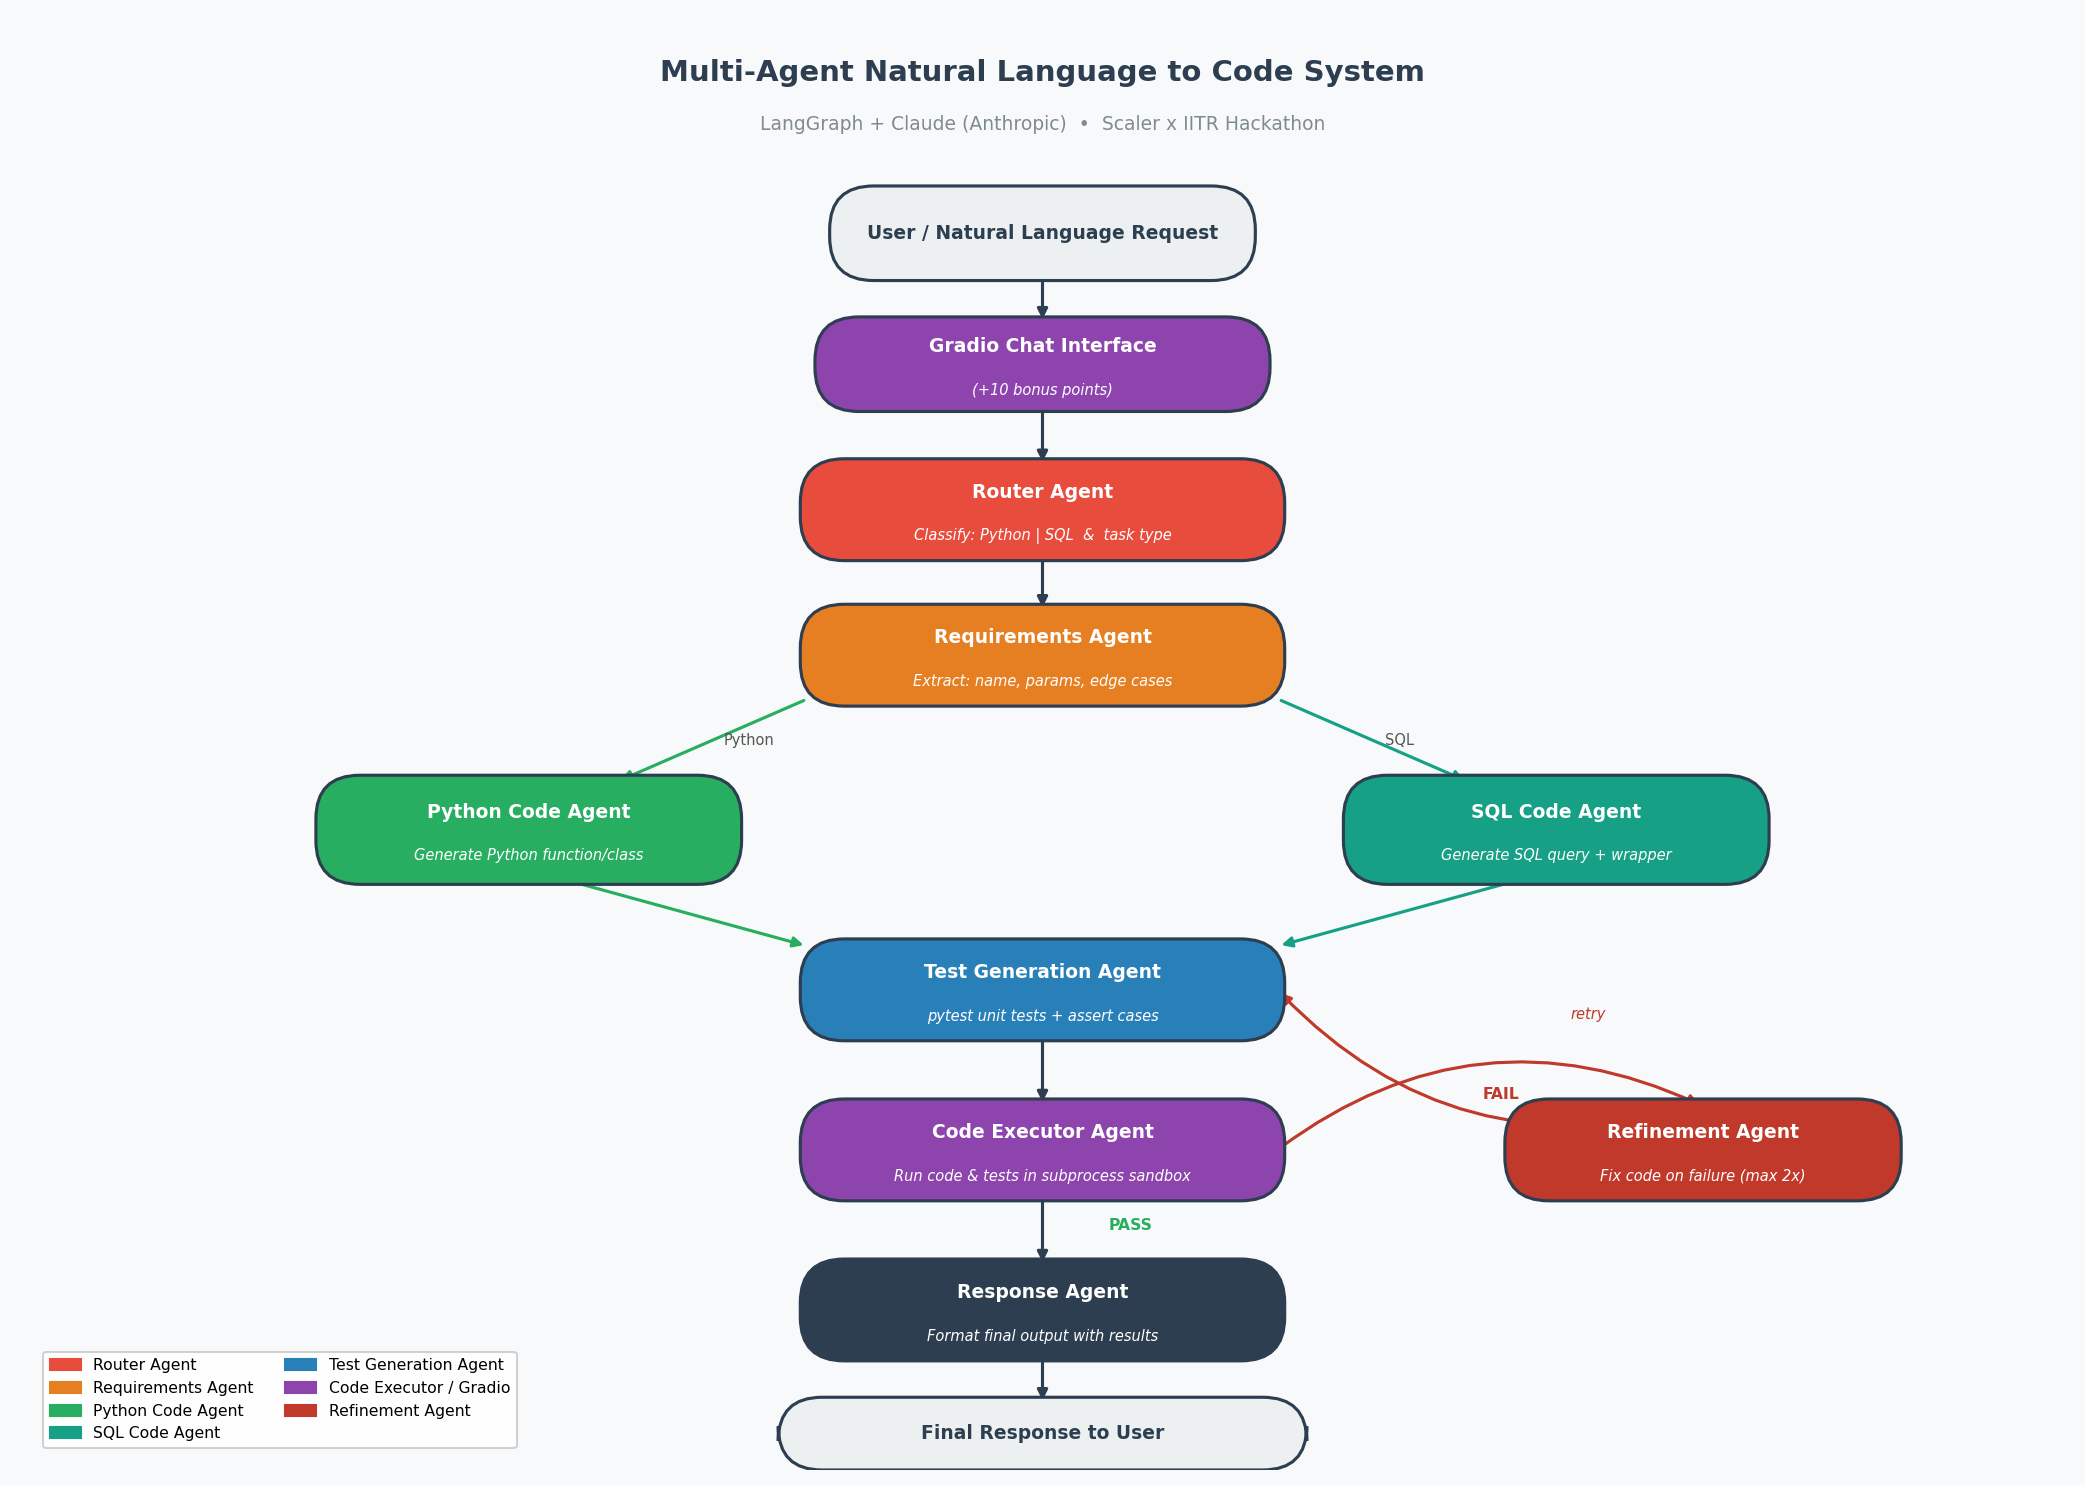
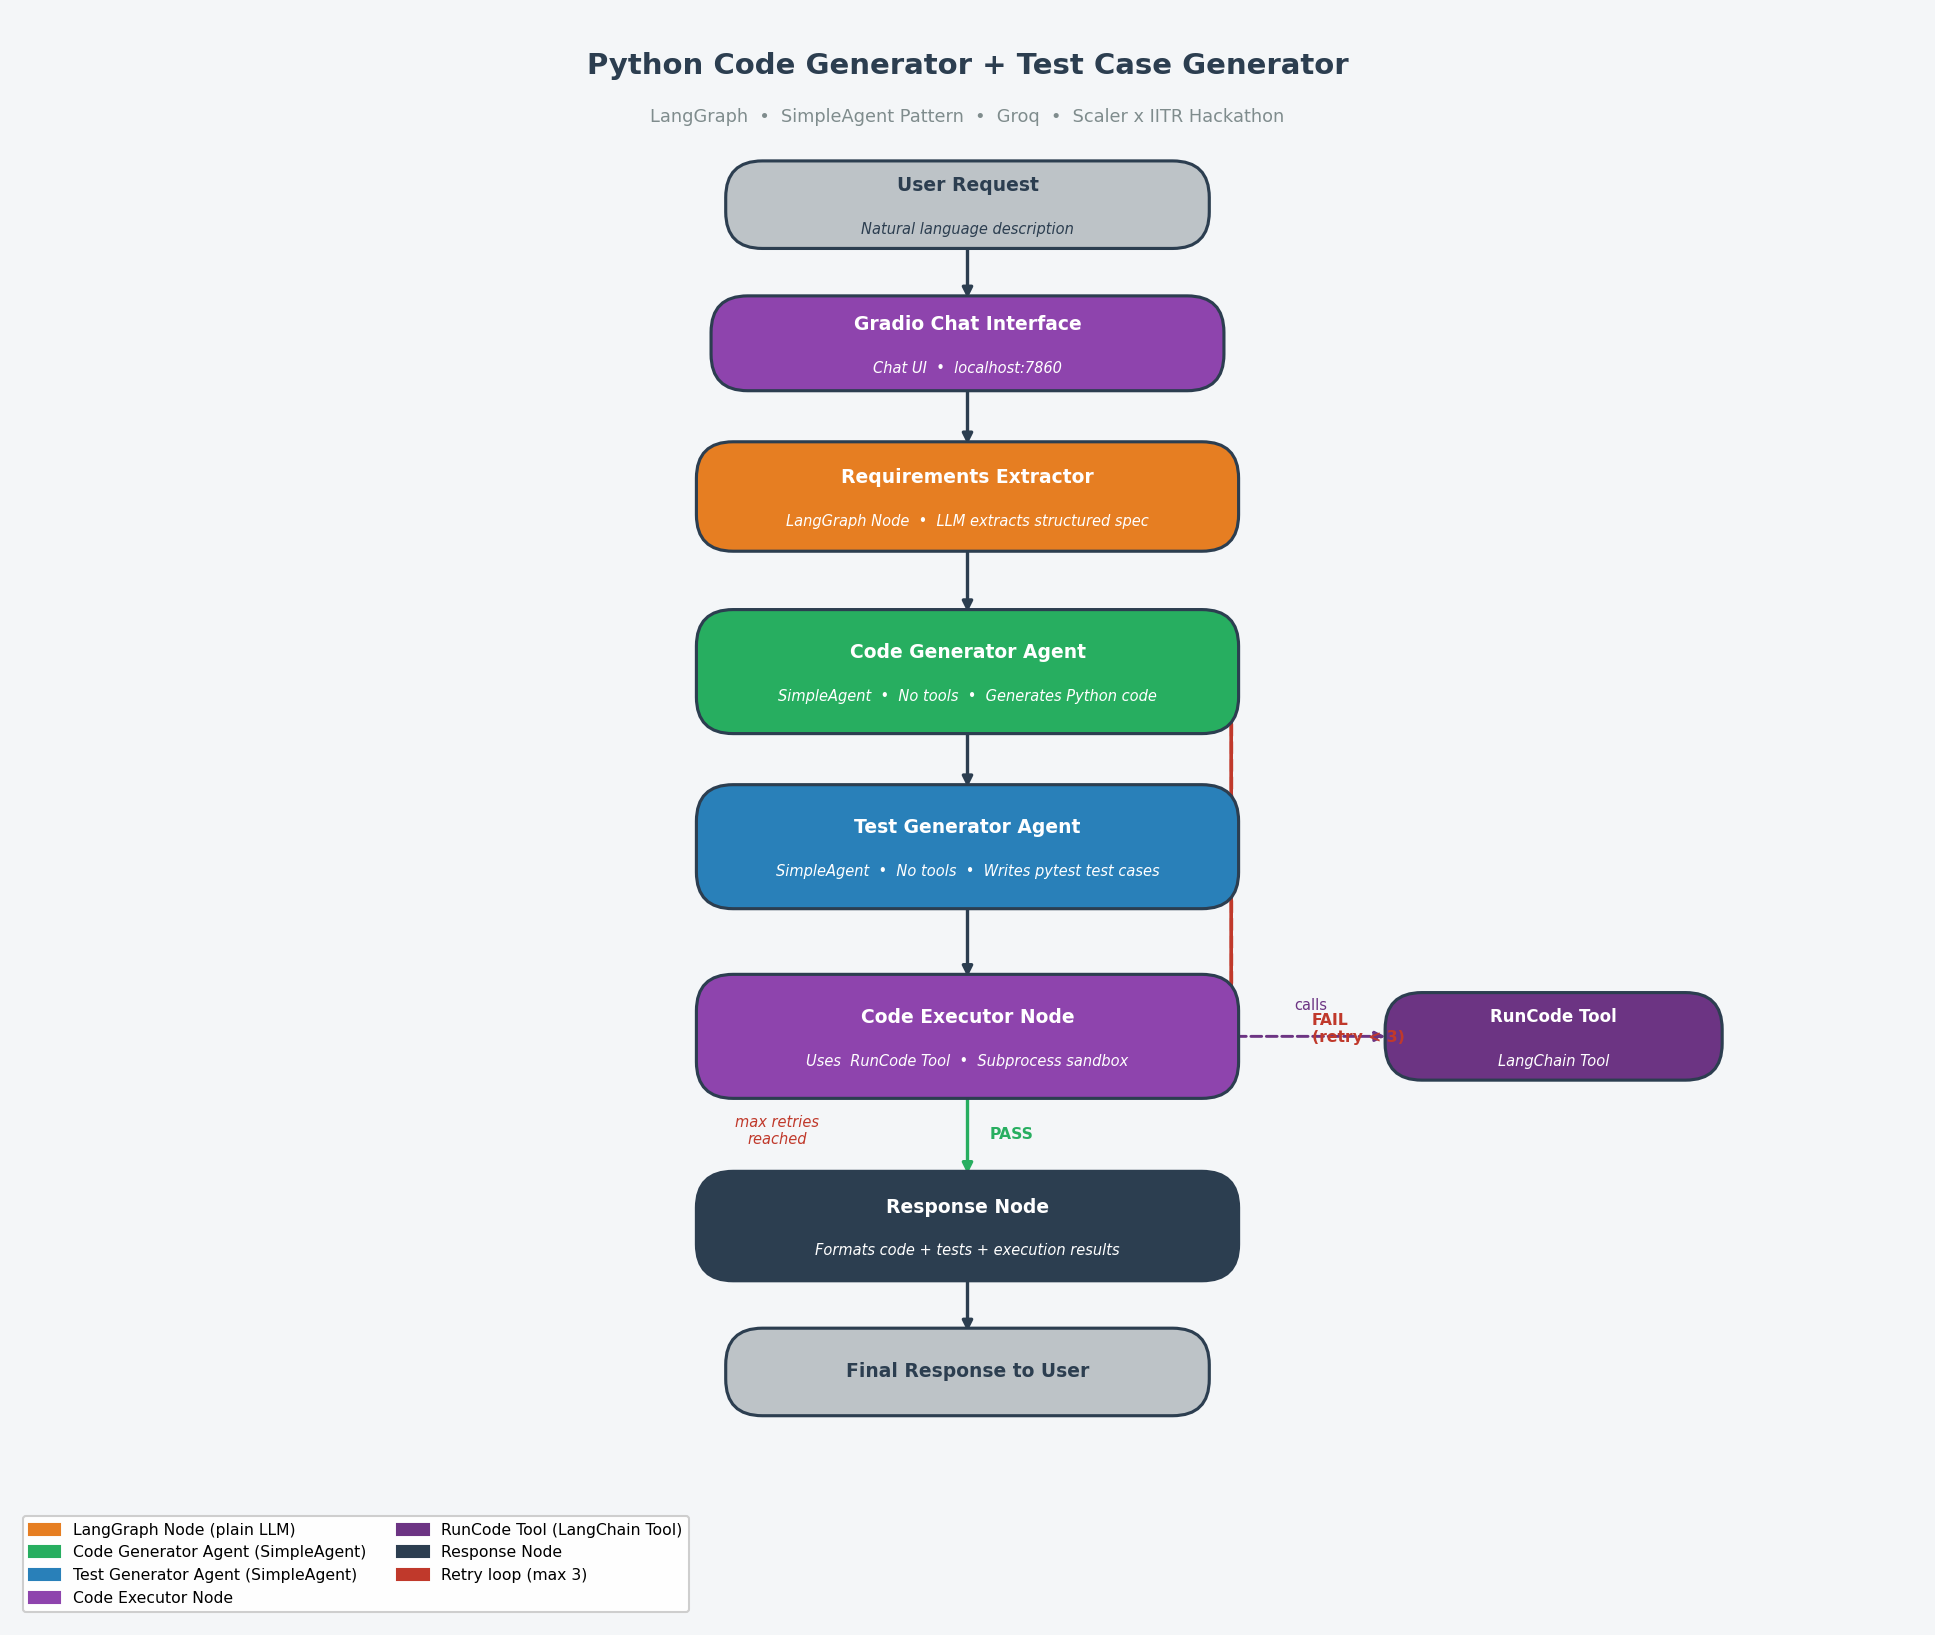
Update flow diagram and add .env support for API key
- Regenerate flow_diagram.png matching new LangGraph architecture:
  Requirements Extractor → Code Generator Agent (SimpleAgent) →
  Test Generator Agent (SimpleAgent) → Code Executor (RunCode Tool) →
  retry loop → Response Node
- Update flow_diagram.py to reflect SimpleAgent pattern and RunCode Tool
- Add .env auto-load in Cell 2 with connection verification
- Add .env to .gitignore

Changed region(s): [[0.124, 0.031, 0.9302, 0.9912], [0.0, 0.8983, 0.3411, 0.9912]]

diff --git a/flow_diagram.py b/flow_diagram.py
@@ -1,145 +1,161 @@
 """
-Flow Diagram Generator for the Multi-Agent NL-to-Code System
-Run: python3 flow_diagram.py
-Saves: flow_diagram.png
+Flow Diagram — Python Code Generator + Test Case Generator
+Architecture: LangGraph + Groq (SimpleAgent pattern)
+Run: python3 flow_diagram.py  →  saves flow_diagram.png
 """
 
 import subprocess, sys
 
-def install(pkg):
-    subprocess.check_call([sys.executable, "-m", "pip", "install", "-q", pkg])
-
 try:
     import matplotlib.pyplot as plt
     import matplotlib.patches as mpatches
-    from matplotlib.patches import FancyBboxPatch, FancyArrowPatch
+    from matplotlib.patches import FancyBboxPatch
 except ImportError:
-    install("matplotlib")
+    subprocess.check_call([sys.executable, "-m", "pip", "install", "-q", "matplotlib"])
     import matplotlib.pyplot as plt
     import matplotlib.patches as mpatches
-    from matplotlib.patches import FancyBboxPatch, FancyArrowPatch
+    from matplotlib.patches import FancyBboxPatch
 
 
-def draw_box(ax, x, y, w, h, label, sublabel="", color="#4A90D9", text_color="white", radius=0.3):
+# ── Helpers ───────────────────────────────────────────────────────────────────
+
+def draw_box(ax, x, y, w, h, label, sublabel="", color="#4A90D9",
+             text_color="white", radius=0.25, fontsize=9):
     box = FancyBboxPatch(
-        (x - w/2, y - h/2), w, h,
+        (x - w / 2, y - h / 2), w, h,
         boxstyle=f"round,pad=0.05,rounding_size={radius}",
-        facecolor=color, edgecolor="#2C3E50", linewidth=1.5, zorder=3
+        facecolor=color, edgecolor="#2C3E50", linewidth=1.5, zorder=3,
     )
     ax.add_patch(box)
-    ax.text(x, y + (0.12 if sublabel else 0), label,
-            ha="center", va="center", fontsize=9, fontweight="bold",
-            color=text_color, zorder=4)
+    offset = 0.13 if sublabel else 0
+    ax.text(x, y + offset, label, ha="center", va="center",
+            fontsize=fontsize, fontweight="bold", color=text_color, zorder=4)
     if sublabel:
-        ax.text(x, y - 0.18, sublabel,
-                ha="center", va="center", fontsize=7, color=text_color, zorder=4, style="italic")
+        ax.text(x, y - 0.17, sublabel, ha="center", va="center",
+                fontsize=7, color=text_color, zorder=4, style="italic")
 
 
-def arrow(ax, x1, y1, x2, y2, label="", color="#2C3E50"):
+def straight_arrow(ax, x1, y1, x2, y2, label="", label_dx=0.12,
+                   color="#2C3E50", lw=1.6):
     ax.annotate("", xy=(x2, y2), xytext=(x1, y1),
-                arrowprops=dict(arrowstyle="-|>", color=color, lw=1.5), zorder=2)
+                arrowprops=dict(arrowstyle="-|>", color=color, lw=lw), zorder=2)
     if label:
-        mx, my = (x1+x2)/2, (y1+y2)/2
-        ax.text(mx + 0.08, my, label, fontsize=7, color="#555", va="center", zorder=5)
+        ax.text((x1 + x2) / 2 + label_dx, (y1 + y2) / 2,
+                label, fontsize=7.5, color=color, fontweight="bold",
+                va="center", zorder=5)
 
 
-fig, ax = plt.subplots(figsize=(14, 10))
-ax.set_xlim(0, 14)
-ax.set_ylim(0, 10)
+def curved_arrow(ax, x1, y1, x2, y2, label="", rad=0.35,
+                 color="#C0392B", lw=1.6, label_offset=(0, 0)):
+    ax.annotate("", xy=(x2, y2), xytext=(x1, y1),
+                arrowprops=dict(arrowstyle="-|>", color=color, lw=lw,
+                                connectionstyle=f"arc3,rad={rad}"), zorder=2)
+    if label:
+        ax.text((x1 + x2) / 2 + label_offset[0],
+                (y1 + y2) / 2 + label_offset[1],
+                label, fontsize=7.5, color=color, fontweight="bold",
+                va="center", zorder=5)
+
+
+# ── Canvas ────────────────────────────────────────────────────────────────────
+
+fig, ax = plt.subplots(figsize=(13, 11))
+ax.set_xlim(0, 13)
+ax.set_ylim(0, 11)
 ax.axis("off")
-ax.set_facecolor("#F8F9FA")
-fig.patch.set_facecolor("#F8F9FA")
+ax.set_facecolor("#F4F6F8")
+fig.patch.set_facecolor("#F4F6F8")
 
-ax.text(7, 9.6, "Multi-Agent Natural Language to Code System",
+# Title
+ax.text(6.5, 10.65, "Python Code Generator + Test Case Generator",
         ha="center", va="center", fontsize=14, fontweight="bold", color="#2C3E50")
-ax.text(7, 9.25, "LangGraph + Claude (Anthropic)  •  Scaler x IITR Hackathon",
-        ha="center", va="center", fontsize=9, color="#7F8C8D")
+ax.text(6.5, 10.3, "LangGraph  •  SimpleAgent Pattern  •  Groq  •  Scaler x IITR Hackathon",
+        ha="center", va="center", fontsize=8.5, color="#7F8C8D")
 
-# ── Nodes ──────────────────────────────────────────────────────────────────────
+# ── Nodes (top → bottom, centred at x=6.5) ───────────────────────────────────
 
-# User
-draw_box(ax, 7, 8.5, 2.8, 0.55, "User / Natural Language Request", color="#ECF0F1", text_color="#2C3E50")
+# 1. User
+draw_box(ax, 6.5, 9.7, 3.2, 0.5, "User Request",
+         sublabel="Natural language description", color="#BDC3C7", text_color="#2C3E50")
 
-# Gradio UI
-draw_box(ax, 7, 7.6, 3.0, 0.55, "Gradio Chat Interface", sublabel="(+10 bonus points)", color="#8E44AD")
+# 2. Gradio
+draw_box(ax, 6.5, 8.75, 3.4, 0.55, "Gradio Chat Interface",
+         sublabel="Chat UI  •  localhost:7860", color="#8E44AD")
 
-# Router Agent
-draw_box(ax, 7, 6.6, 3.2, 0.6, "Router Agent", sublabel="Classify: Python | SQL  &  task type", color="#E74C3C")
+# 3. Requirements Extractor  (LangGraph node — plain LLM call)
+draw_box(ax, 6.5, 7.7, 3.6, 0.65, "Requirements Extractor",
+         sublabel="LangGraph Node  •  LLM extracts structured spec", color="#E67E22")
 
-# Requirements Agent
-draw_box(ax, 7, 5.6, 3.2, 0.6, "Requirements Agent", sublabel="Extract: name, params, edge cases", color="#E67E22")
+# 4. Code Generator Agent  (SimpleAgent)
+draw_box(ax, 6.5, 6.5, 3.6, 0.75, "Code Generator Agent",
+         sublabel="SimpleAgent  •  No tools  •  Generates Python code", color="#27AE60")
 
-# Python Code Agent
-draw_box(ax, 3.5, 4.4, 2.8, 0.65, "Python Code Agent", sublabel="Generate Python function/class", color="#27AE60")
+# 5. Test Generator Agent  (SimpleAgent)
+draw_box(ax, 6.5, 5.3, 3.6, 0.75, "Test Generator Agent",
+         sublabel="SimpleAgent  •  No tools  •  Writes pytest test cases", color="#2980B9")
 
-# SQL Code Agent
-draw_box(ax, 10.5, 4.4, 2.8, 0.65, "SQL Code Agent", sublabel="Generate SQL query + wrapper", color="#16A085")
+# 6. Code Executor  (LangGraph node using RunCode Tool)
+draw_box(ax, 6.5, 4.0, 3.6, 0.75, "Code Executor Node",
+         sublabel="Uses  RunCode Tool  •  Subprocess sandbox", color="#8E44AD")
 
-# Test Gen Agent
-draw_box(ax, 7, 3.3, 3.2, 0.6, "Test Generation Agent", sublabel="pytest unit tests + assert cases", color="#2980B9")
+# RunCode Tool badge (small box hanging off the executor)
+draw_box(ax, 10.5, 4.0, 2.2, 0.5, "RunCode Tool",
+         sublabel="LangChain Tool", color="#6C3483", fontsize=8)
 
-# Code Executor Agent
-draw_box(ax, 7, 2.2, 3.2, 0.6, "Code Executor Agent", sublabel="Run code & tests in subprocess sandbox", color="#8E44AD")
+# 7. Response Node
+draw_box(ax, 6.5, 2.7, 3.6, 0.65, "Response Node",
+         sublabel="Formats code + tests + execution results", color="#2C3E50")
 
-# Refinement Agent
-draw_box(ax, 11.5, 2.2, 2.6, 0.6, "Refinement Agent", sublabel="Fix code on failure (max 2x)", color="#C0392B")
+# 8. Final output
+draw_box(ax, 6.5, 1.7, 3.2, 0.5, "Final Response to User",
+         color="#BDC3C7", text_color="#2C3E50")
 
-# Response Agent
-draw_box(ax, 7, 1.1, 3.2, 0.6, "Response Agent", sublabel="Format final output with results", color="#2C3E50")
+# ── Arrows ────────────────────────────────────────────────────────────────────
 
-# Final Output
-draw_box(ax, 7, 0.25, 3.5, 0.4, "Final Response to User", color="#ECF0F1", text_color="#2C3E50")
+straight_arrow(ax, 6.5, 9.45, 6.5, 9.03)              # user → gradio
+straight_arrow(ax, 6.5, 8.48, 6.5, 8.03)              # gradio → requirements
+straight_arrow(ax, 6.5, 7.37, 6.5, 6.88)              # requirements → code gen
+straight_arrow(ax, 6.5, 6.12, 6.5, 5.68)              # code gen → test gen
+straight_arrow(ax, 6.5, 4.93, 6.5, 4.38)              # test gen → executor
+straight_arrow(ax, 6.5, 3.63, 6.5, 3.03,              # executor → response (PASS)
+               label="PASS", label_dx=0.15, color="#27AE60")
+straight_arrow(ax, 6.5, 2.37, 6.5, 1.95)              # response → final output
 
-# ── Arrows ─────────────────────────────────────────────────────────────────────
+# RunCode Tool connector (dashed line from executor to tool badge)
+ax.annotate("", xy=(9.38, 4.0), xytext=(8.3, 4.0),
+            arrowprops=dict(arrowstyle="-|>", color="#6C3483", lw=1.4,
+                            linestyle="dashed"), zorder=2)
+ax.text(8.84, 4.18, "calls", fontsize=7, color="#6C3483", ha="center", zorder=5)
 
-arrow(ax, 7, 8.22, 7, 7.88)                          # user → gradio
-arrow(ax, 7, 7.32, 7, 6.9)                            # gradio → router
-arrow(ax, 7, 6.3, 7, 5.9)                             # router → requirements
+# Retry loop: executor → code gen (FAIL, curved, right side)
+curved_arrow(ax, 8.3, 4.0, 8.3, 6.5,
+             label="FAIL\n(retry < 3)", rad=-0.0,
+             color="#C0392B", label_offset=(0.55, -1.2))
 
-# requirements → python (fork left)
-arrow(ax, 5.4, 5.3, 4.1, 4.73, "Python", "#27AE60")
-# requirements → sql (fork right)
-arrow(ax, 8.6, 5.3, 9.9, 4.73, "SQL", "#16A085")
+# vertical line on right side for retry
+ax.plot([8.3, 8.3], [4.0, 6.5], color="#C0392B", lw=1.6, zorder=1, linestyle="--")
+ax.annotate("", xy=(8.3, 6.5), xytext=(8.3, 4.0),
+            arrowprops=dict(arrowstyle="-|>", color="#C0392B", lw=1.6), zorder=2)
 
-# python + sql → test gen
-arrow(ax, 3.7, 4.07, 5.4, 3.6, "", "#27AE60")
-arrow(ax, 10.3, 4.07, 8.6, 3.6, "", "#16A085")
+# Max retries label on executor → response path
+ax.text(5.2, 3.35, "max retries\nreached", fontsize=7, color="#C0392B",
+        ha="center", va="center", style="italic", zorder=5)
 
-arrow(ax, 7, 3.0, 7, 2.5)                             # test gen → executor
-arrow(ax, 7, 1.9, 7, 1.4)                             # executor → response (pass)
-
-# executor → refinement (fail)
-ax.annotate("", xy=(11.5, 2.5), xytext=(8.6, 2.2),
-            arrowprops=dict(arrowstyle="-|>", color="#C0392B", lw=1.5,
-                            connectionstyle="arc3,rad=-0.3"), zorder=2)
-ax.text(10.0, 2.55, "FAIL", fontsize=7.5, color="#C0392B", fontweight="bold")
-
-# refinement → test gen (retry loop)
-ax.annotate("", xy=(8.6, 3.3), xytext=(11.5, 2.5),
-            arrowprops=dict(arrowstyle="-|>", color="#C0392B", lw=1.5,
-                            connectionstyle="arc3,rad=-0.3"), zorder=2)
-ax.text(10.6, 3.1, "retry", fontsize=7, color="#C0392B", style="italic")
-
-# executor → response pass label
-ax.text(7.45, 1.65, "PASS", fontsize=7.5, color="#27AE60", fontweight="bold")
-
-arrow(ax, 7, 0.8, 7, 0.45)                            # response → output
-
-# ── Legend ─────────────────────────────────────────────────────────────────────
+# ── Legend ────────────────────────────────────────────────────────────────────
 
 legend_items = [
-    mpatches.Patch(color="#E74C3C", label="Router Agent"),
-    mpatches.Patch(color="#E67E22", label="Requirements Agent"),
-    mpatches.Patch(color="#27AE60", label="Python Code Agent"),
-    mpatches.Patch(color="#16A085", label="SQL Code Agent"),
-    mpatches.Patch(color="#2980B9", label="Test Generation Agent"),
-    mpatches.Patch(color="#8E44AD", label="Code Executor / Gradio"),
-    mpatches.Patch(color="#C0392B", label="Refinement Agent"),
+    mpatches.Patch(color="#E67E22", label="LangGraph Node (plain LLM)"),
+    mpatches.Patch(color="#27AE60", label="Code Generator Agent (SimpleAgent)"),
+    mpatches.Patch(color="#2980B9", label="Test Generator Agent (SimpleAgent)"),
+    mpatches.Patch(color="#8E44AD", label="Code Executor Node"),
+    mpatches.Patch(color="#6C3483", label="RunCode Tool (LangChain Tool)"),
+    mpatches.Patch(color="#2C3E50", label="Response Node"),
+    mpatches.Patch(color="#C0392B", label="Retry loop (max 3)"),
 ]
 ax.legend(handles=legend_items, loc="lower left", fontsize=7.5,
-          framealpha=0.9, ncol=2, bbox_to_anchor=(0.01, 0.01))
+          framealpha=0.95, ncol=2, bbox_to_anchor=(0.0, 0.0))
 
 plt.tight_layout()
-plt.savefig("flow_diagram.png", dpi=150, bbox_inches="tight", facecolor="#F8F9FA")
+plt.savefig("flow_diagram.png", dpi=150, bbox_inches="tight", facecolor="#F4F6F8")
 print("Saved: flow_diagram.png")
 plt.show()